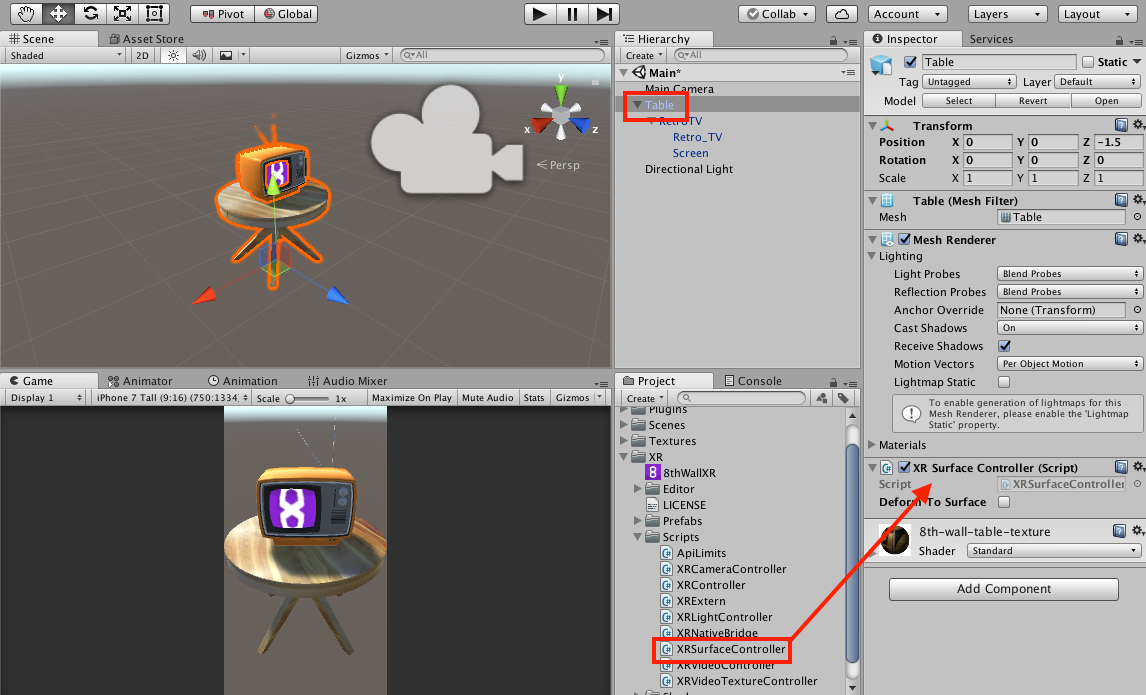
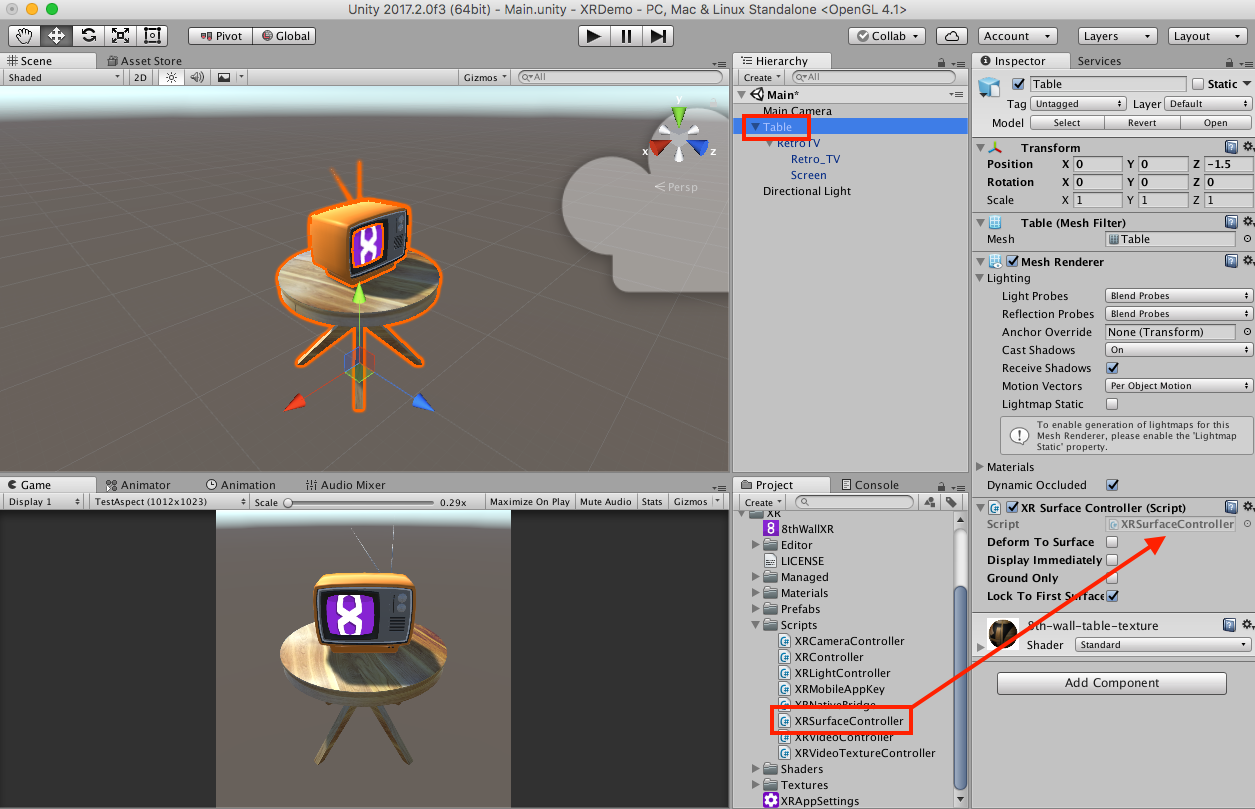
Update tutorial for R5

diff --git a/projects/8thWallXR-Tutorial/README.md b/projects/8thWallXR-Tutorial/README.md
@@ -10,13 +10,9 @@ This sample application contains a simple scene consisting of a TV sitting on a 
 * Adjust the intensity of the scene light based on the lighting conditions in the world around you by adding an **XRLightController** to the light.
 * Place the table onto a detected surface by adding an **XRSurfaceController** to the table.
 
-**NOTE**: This project was created with Unity **2017.1.0f3**. If you are on an older version, it should still work, however the textures might not appear properly.
-
 ## Download Unity
 
 If you don't already have Unity installed, please download it from <a href='https://www.unity3d.com' target='_blank'>www.unity3d.com</a>
-
-Unity version **2017.1.0f3** or later is recommended. See note above.
 
 Note: During installation, make sure you install **BOTH** Android & iOS build support packages, even if you only plan to develop for one:
 
@@ -33,7 +29,7 @@ Open Unity and on the welcome screen, click "New" to create a new project.  Give
 
 ## Download the sample Unity app
 
-[Download](https://github.com/8thwall/xr-unity/blob/master/projects/8thWallXR-Tutorial/8thWallXR-TutorialApp.unitypackage?raw=true) a sample Unity project to augment with 8th Wall XR.
+[Download](https://github.com/8thwall/xr-unity/raw/master/projects/8thWallXR-Tutorial/8thWallXR-Tutorial.unitypackage) the sample Unity project to augment with 8th Wall XR.
 
 Double click on the .unitypackage file downloaded, and import all of the objects into the Unity project.  This sample application contains a simple scene (called "Main") consisting of a TV sitting on a table::
 
@@ -41,9 +37,9 @@ Double click on the .unitypackage file downloaded, and import all of the objects
 
 ## Download 8th Wall XR for Unity
 
-The 8th Wall XR Unity package is available here:
+If you don't already have an 8th Wall account, sign up for one.  It's free. Once logged in, the 8th Wall XR Unity package is available here:
 
-<a href='https://www.8thwall.com/#unity' target='_blank'>https://www.8thwall.com/#unity</a>
+<a href='https://console.8thwall.com/downloads' target='_blank'>https://console.8thwall.com/downloads</a>
 
 ## Install XR
 
@@ -52,6 +48,34 @@ Add 8th Wall XR to your Unity project.  Locate the xr-<version>.unityplugin file
 Once finished, a window will display the contents of the XR package.  Leave all of the boxes checked and click "Import".
 
 ![import-xr-unity-package](images/getting-started-import-xr-unity-package.png)
+
+### Generate App Key
+
+1. To create an app key, go to [https://console.8thwall.com](https://console.8thwall.com) and login. Select "Applications" from the left navigation and then click the **"+ Create a new App Key"** button:
+
+![CreateAppKey1](images/console-app-create1.png)
+
+2. Enter the bundle identifier of the application you’ll be creating, then click **"+ Create"**
+
+**IMPORTANT**: The bundle identifier entered will here needs to be identical to the bundle identifier in your Unity project.
+
+![CreateAppKey2](images/console-app-create2.png)
+
+Note: A bundle identifier is typically written in [reverse domain name notation](https://en.wikipedia.org/wiki/Reverse_domain_name_notation#Examples) and identifies your application in the app store. It should be unique.
+
+### Install App Key
+
+1. Select "Applications" from the left navigation.
+2. In the "Your App Keys" table, locate the row containing your App and its associated App Key. 
+3. Click the "Copy" button.
+
+![AddAppKey1](images/console-app-copy1.png)
+
+4. In Unity, select **Assets / XR / XRAppSettings**.  Paste your key into the **App Key** field.
+
+**IMPORTANT**: Make sure that the Bundle Identifier matches the bundle identifier you entered in Step #2.
+
+![AddAppKey2](images/console-app-copy2.png)
 
 ## Create an XRController
 
@@ -117,18 +141,6 @@ Select the "Screen" object in your scene and perform one of the following action
 ## Adjust Player Settings
 
 Before you build the app, make sure to set a few things:
-
-### Company Name and Product Name
-
-Go to **Edit -> Project Settings -> Player**.  Enter in values for Company Name and Product Name
-
-![Player Settings 1](images/player-settings-1.png)
-
-Below, for all 3 tabs, enter in a Bundle Identifier:
-
-![Player Settings 2](images/player-settings-2.png)
-
-## Adjust Player Settings
 
 Go to **File -> Build Settings** and click "Add Open Scenes".
 
